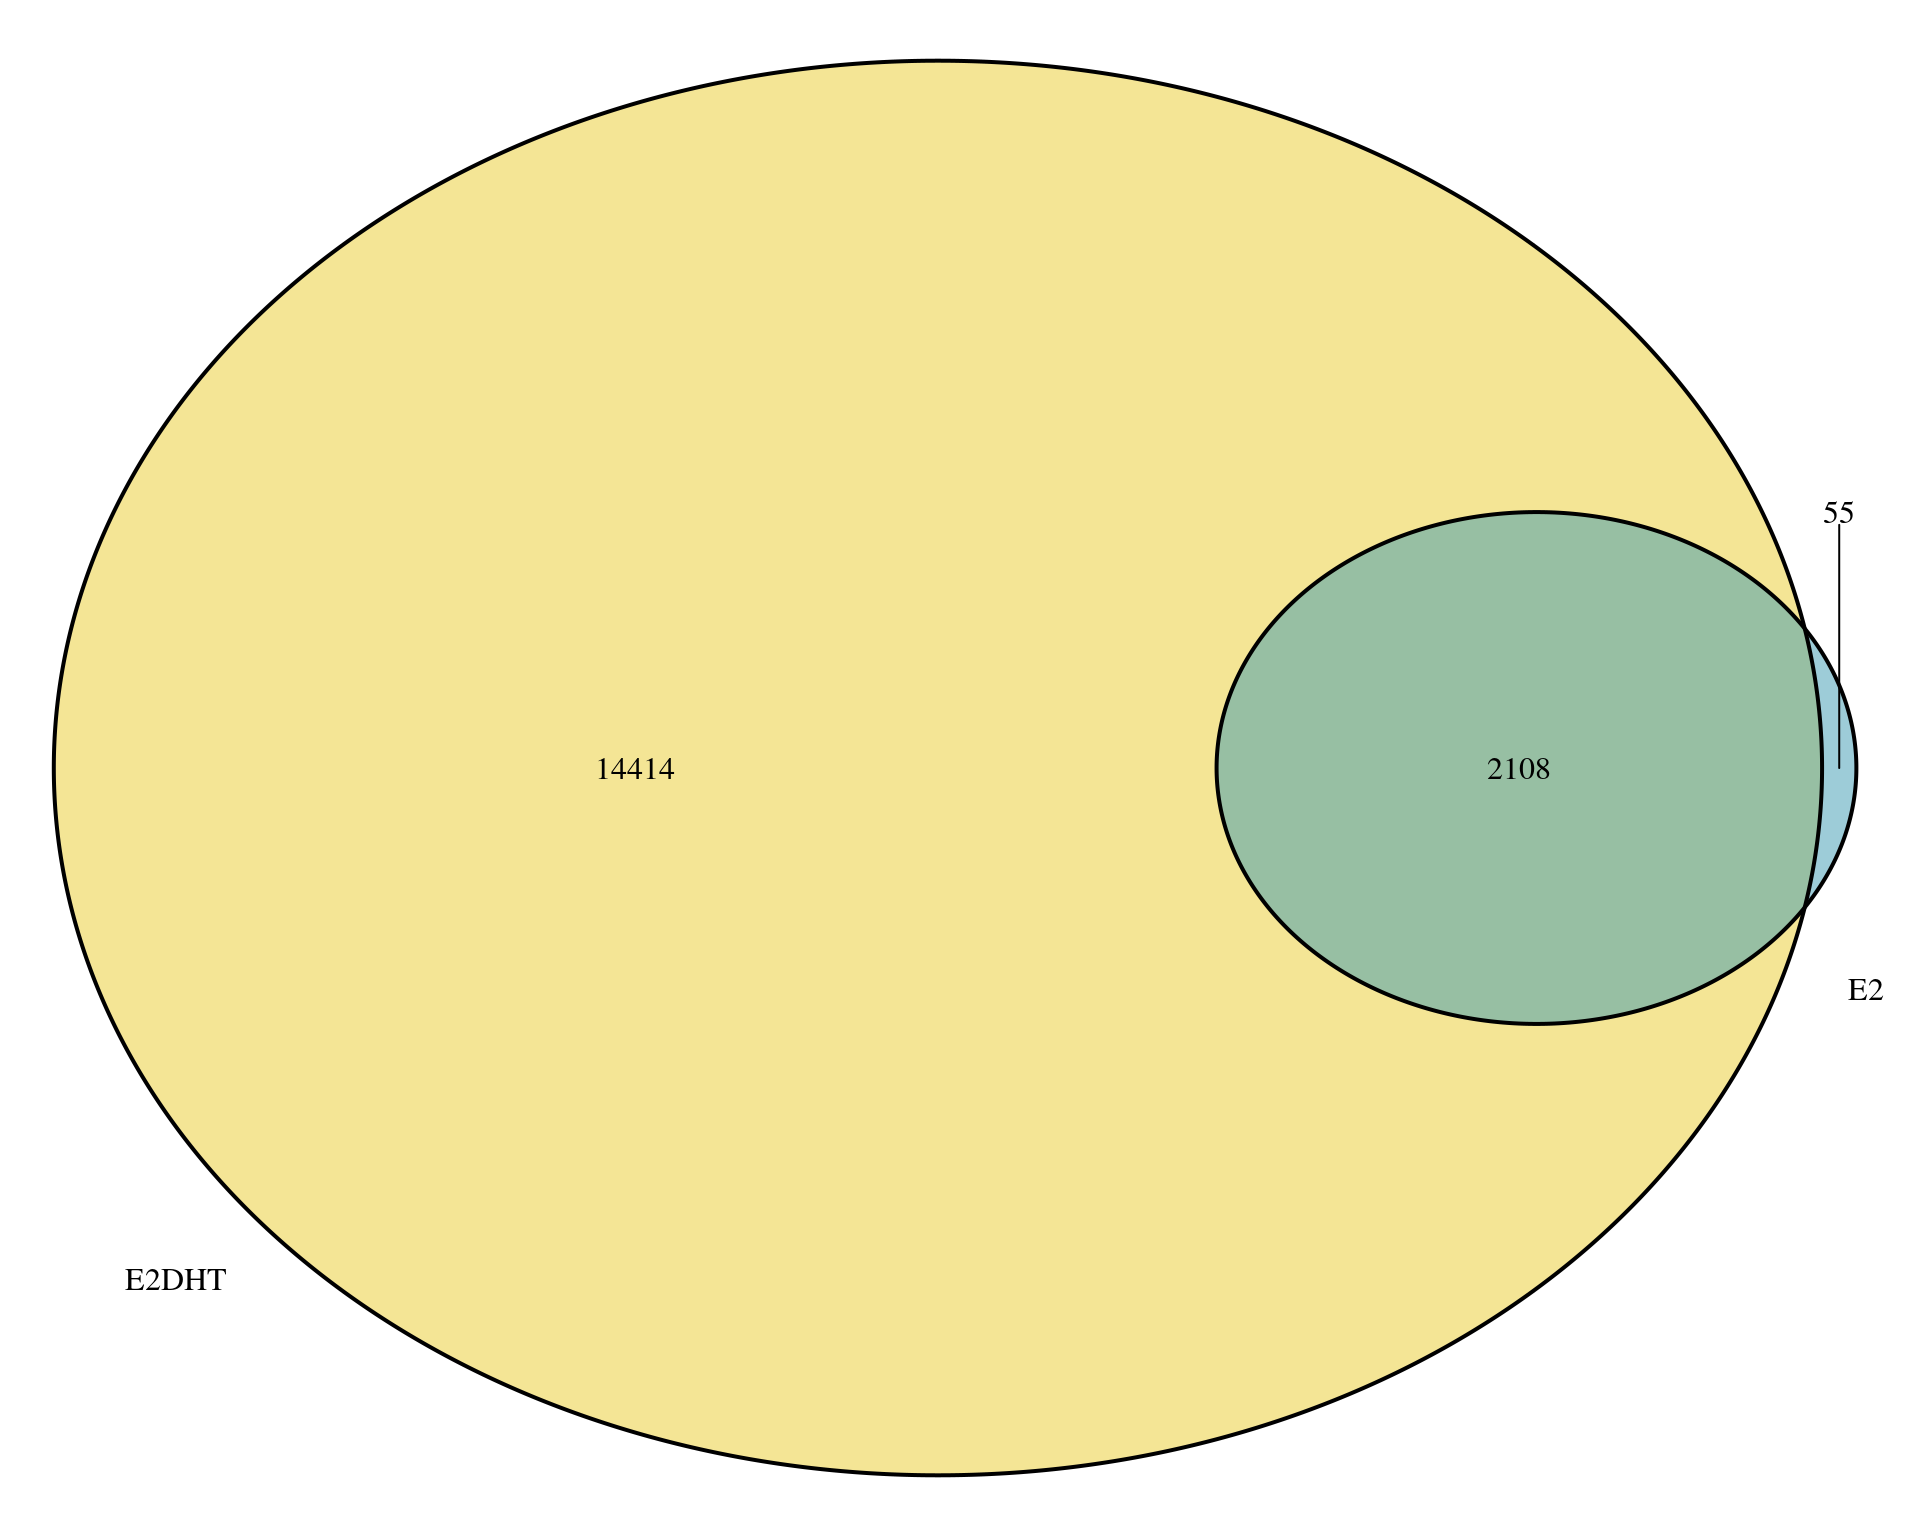
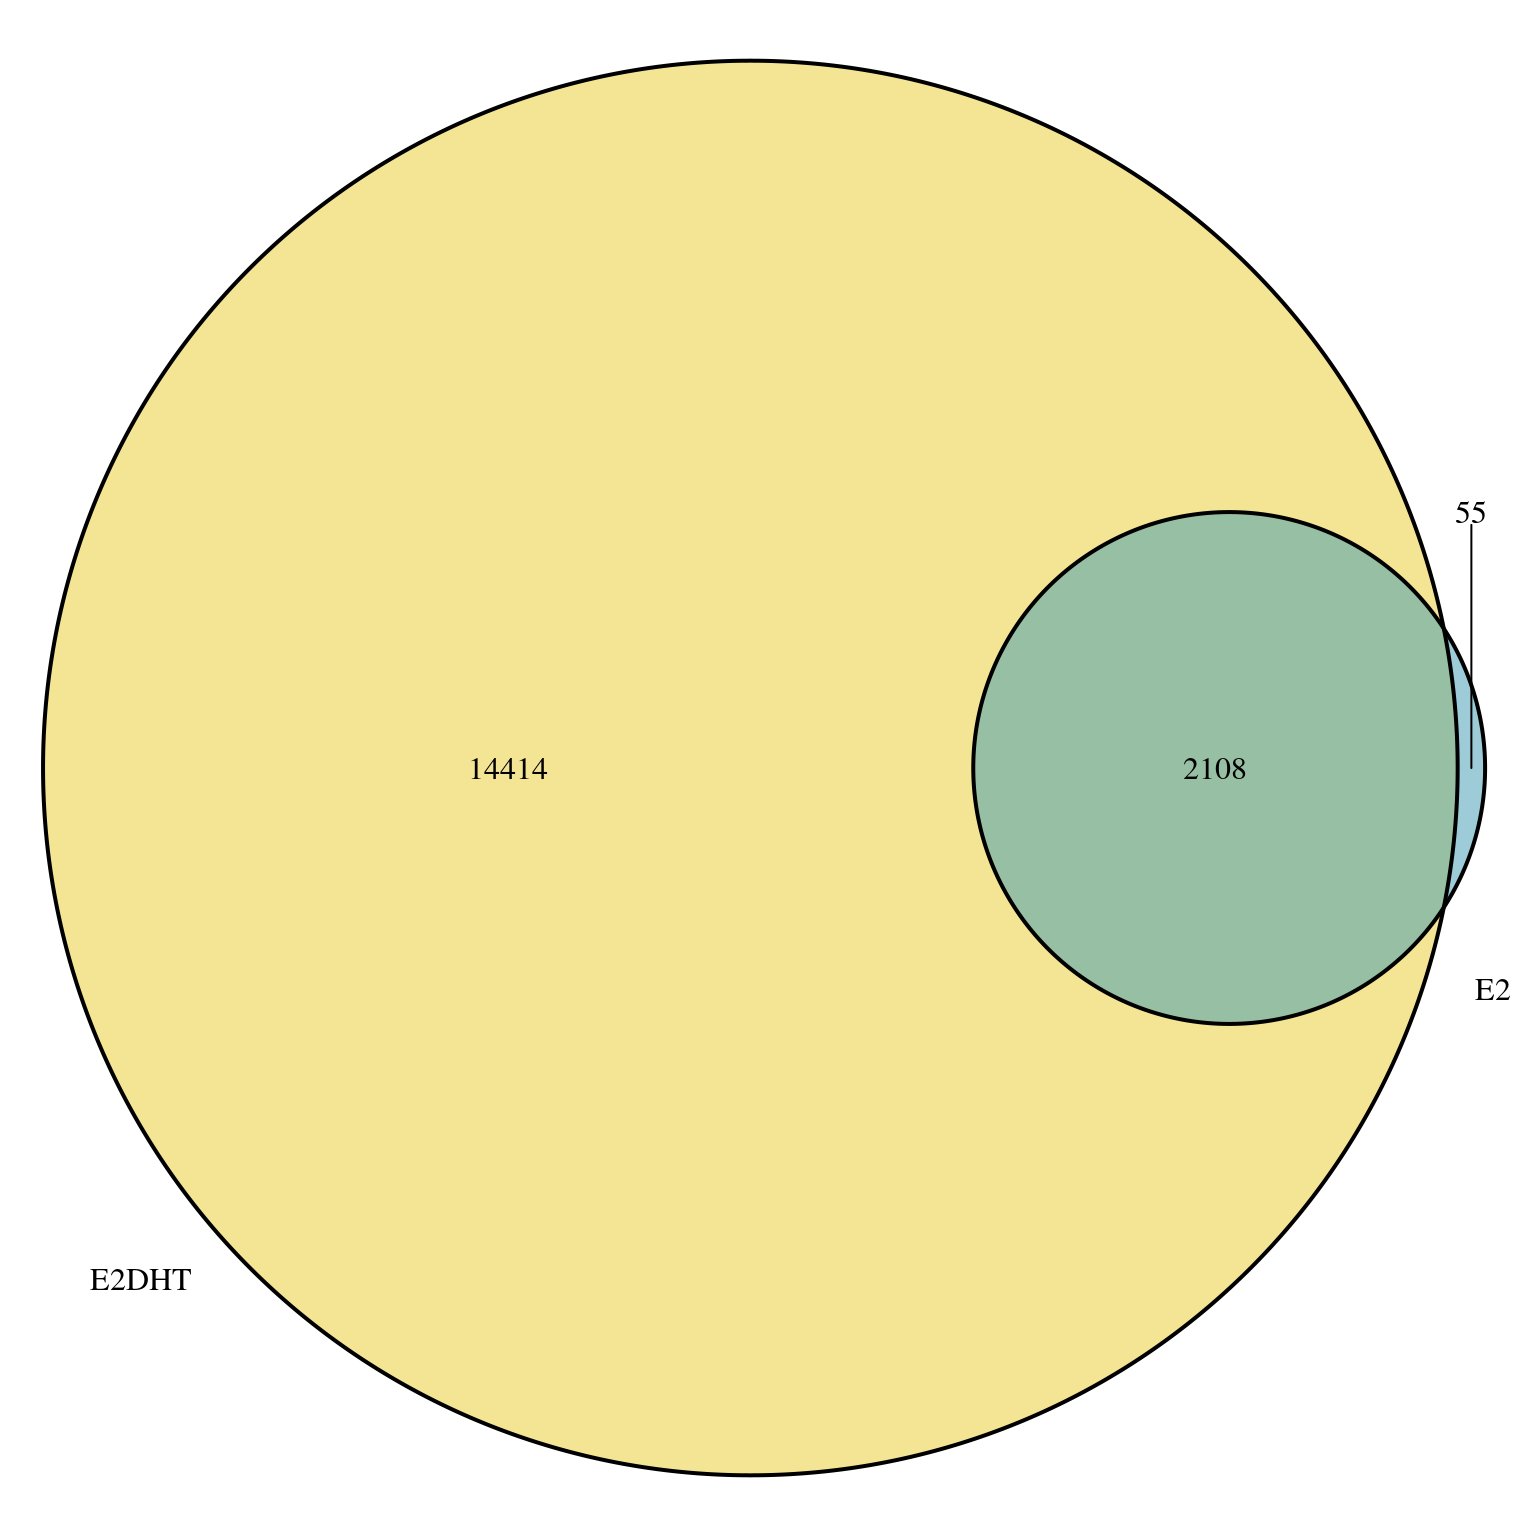
Corrected references & made Venns more circular

diff --git a/docs/H3K27ac_macs2_summary.html b/docs/H3K27ac_macs2_summary.html
@@ -510,8 +510,8 @@ href="#ref-Landt2012-tn" role="doc-biblioref">Landt et al.
 <li><strong>Cross Correlations</strong>: This provides an estimate of
 average fragment length and an additional guide as to the relative
 success of the IP step <span class="citation">(<a
-href="#ref-LunSmythCsaw2014" role="doc-biblioref">Lun and Smyth
-2014</a>)</span></li>
+href="#ref-Landt2012-tn" role="doc-biblioref">Landt et al.
+2012</a>)</span></li>
 </ul>
 <pre class="r"><code>macs2_logs %&gt;%
   mutate(target = target) %&gt;% 
@@ -992,7 +992,7 @@ the peak calling process. The fragment length as estimated by
 <h3>Merged Peak Overlaps</h3>
 <pre class="r"><code>plotOverlaps(merged_peaks, set_col = treat_colours)</code></pre>
 <div class="figure" style="text-align: center">
-<img src="H3K27ac_macs2_summary_files/figure-html/merged-peak-overlaps-1.png" alt="*Overlap between peaks in each treatment-specific set of peaks called by merging replicates.*" width="960" />
+<img src="H3K27ac_macs2_summary_files/figure-html/merged-peak-overlaps-1.png" alt="*Overlap between peaks in each treatment-specific set of peaks called by merging replicates.*" width="768" />
 <p class="caption">
 <em>Overlap between peaks in each treatment-specific set of peaks called
 by merging replicates.</em>
@@ -1107,13 +1107,6 @@ Florencia Pauli, Serafim Batzoglou, Bradley E Bernstein, et al. 2012.
 <span>“<span class="nocase">ChIP-seq</span> Guidelines and Practices of
 the <span>ENCODE</span> and <span class="nocase">modENCODE</span>
 Consortia.”</span> <em>Genome Res.</em> 22 (9): 1813–31.
-</div>
-<div id="ref-LunSmythCsaw2014" class="csl-entry">
-Lun, Aaron T L, and Gordon K Smyth. 2014. <span>“<span>D</span>e Novo
-Detection of Differentially Bound Regions for
-<span>C</span>h<span>I</span><span>P</span>-Seq Data Using Peaks and
-Windows: Controlling Error Rates Correctly.”</span> <em>Nucleic Acids
-Res.</em> 42 (11): e95.
 </div>
 <div id="ref-Zhang2008-ms" class="csl-entry">
 Zhang, Yong, Tao Liu, Clifford A Meyer, Jérôme Eeckhoute, David S

diff --git a/docs/ERa_macs2_summary.html b/docs/ERa_macs2_summary.html
@@ -510,8 +510,8 @@ href="#ref-Landt2012-tn" role="doc-biblioref">Landt et al.
 <li><strong>Cross Correlations</strong>: This provides an estimate of
 average fragment length and an additional guide as to the relative
 success of the IP step <span class="citation">(<a
-href="#ref-LunSmythCsaw2014" role="doc-biblioref">Lun and Smyth
-2014</a>)</span></li>
+href="#ref-Landt2012-tn" role="doc-biblioref">Landt et al.
+2012</a>)</span></li>
 </ul>
 <pre class="r"><code>macs2_logs %&gt;%
   mutate(target = target) %&gt;% 
@@ -992,7 +992,7 @@ peak calling process. The fragment length as estimated by
 <h3>Merged Peak Overlaps</h3>
 <pre class="r"><code>plotOverlaps(merged_peaks, set_col = treat_colours)</code></pre>
 <div class="figure" style="text-align: center">
-<img src="ERa_macs2_summary_files/figure-html/merged-peak-overlaps-1.png" alt="*Overlap between peaks in each treatment-specific set of peaks called by merging replicates.*" width="960" />
+<img src="ERa_macs2_summary_files/figure-html/merged-peak-overlaps-1.png" alt="*Overlap between peaks in each treatment-specific set of peaks called by merging replicates.*" width="768" />
 <p class="caption">
 <em>Overlap between peaks in each treatment-specific set of peaks called
 by merging replicates.</em>
@@ -1107,13 +1107,6 @@ Florencia Pauli, Serafim Batzoglou, Bradley E Bernstein, et al. 2012.
 <span>“<span class="nocase">ChIP-seq</span> Guidelines and Practices of
 the <span>ENCODE</span> and <span class="nocase">modENCODE</span>
 Consortia.”</span> <em>Genome Res.</em> 22 (9): 1813–31.
-</div>
-<div id="ref-LunSmythCsaw2014" class="csl-entry">
-Lun, Aaron T L, and Gordon K Smyth. 2014. <span>“<span>D</span>e Novo
-Detection of Differentially Bound Regions for
-<span>C</span>h<span>I</span><span>P</span>-Seq Data Using Peaks and
-Windows: Controlling Error Rates Correctly.”</span> <em>Nucleic Acids
-Res.</em> 42 (11): e95.
 </div>
 <div id="ref-Zhang2008-ms" class="csl-entry">
 Zhang, Yong, Tao Liu, Clifford A Meyer, Jérôme Eeckhoute, David S

diff --git a/docs/AR_macs2_summary.html b/docs/AR_macs2_summary.html
@@ -510,8 +510,8 @@ href="#ref-Landt2012-tn" role="doc-biblioref">Landt et al.
 <li><strong>Cross Correlations</strong>: This provides an estimate of
 average fragment length and an additional guide as to the relative
 success of the IP step <span class="citation">(<a
-href="#ref-LunSmythCsaw2014" role="doc-biblioref">Lun and Smyth
-2014</a>)</span></li>
+href="#ref-Landt2012-tn" role="doc-biblioref">Landt et al.
+2012</a>)</span></li>
 </ul>
 <pre class="r"><code>macs2_logs %&gt;%
   mutate(target = target) %&gt;% 
@@ -992,7 +992,7 @@ peak calling process. The fragment length as estimated by
 <h3>Merged Peak Overlaps</h3>
 <pre class="r"><code>plotOverlaps(merged_peaks, set_col = treat_colours)</code></pre>
 <div class="figure" style="text-align: center">
-<img src="AR_macs2_summary_files/figure-html/merged-peak-overlaps-1.png" alt="*Overlap between peaks in each treatment-specific set of peaks called by merging replicates.*" width="960" />
+<img src="AR_macs2_summary_files/figure-html/merged-peak-overlaps-1.png" alt="*Overlap between peaks in each treatment-specific set of peaks called by merging replicates.*" width="768" />
 <p class="caption">
 <em>Overlap between peaks in each treatment-specific set of peaks called
 by merging replicates.</em>
@@ -1107,13 +1107,6 @@ Florencia Pauli, Serafim Batzoglou, Bradley E Bernstein, et al. 2012.
 <span>“<span class="nocase">ChIP-seq</span> Guidelines and Practices of
 the <span>ENCODE</span> and <span class="nocase">modENCODE</span>
 Consortia.”</span> <em>Genome Res.</em> 22 (9): 1813–31.
-</div>
-<div id="ref-LunSmythCsaw2014" class="csl-entry">
-Lun, Aaron T L, and Gordon K Smyth. 2014. <span>“<span>D</span>e Novo
-Detection of Differentially Bound Regions for
-<span>C</span>h<span>I</span><span>P</span>-Seq Data Using Peaks and
-Windows: Controlling Error Rates Correctly.”</span> <em>Nucleic Acids
-Res.</em> 42 (11): e95.
 </div>
 <div id="ref-Zhang2008-ms" class="csl-entry">
 Zhang, Yong, Tao Liu, Clifford A Meyer, Jérôme Eeckhoute, David S
